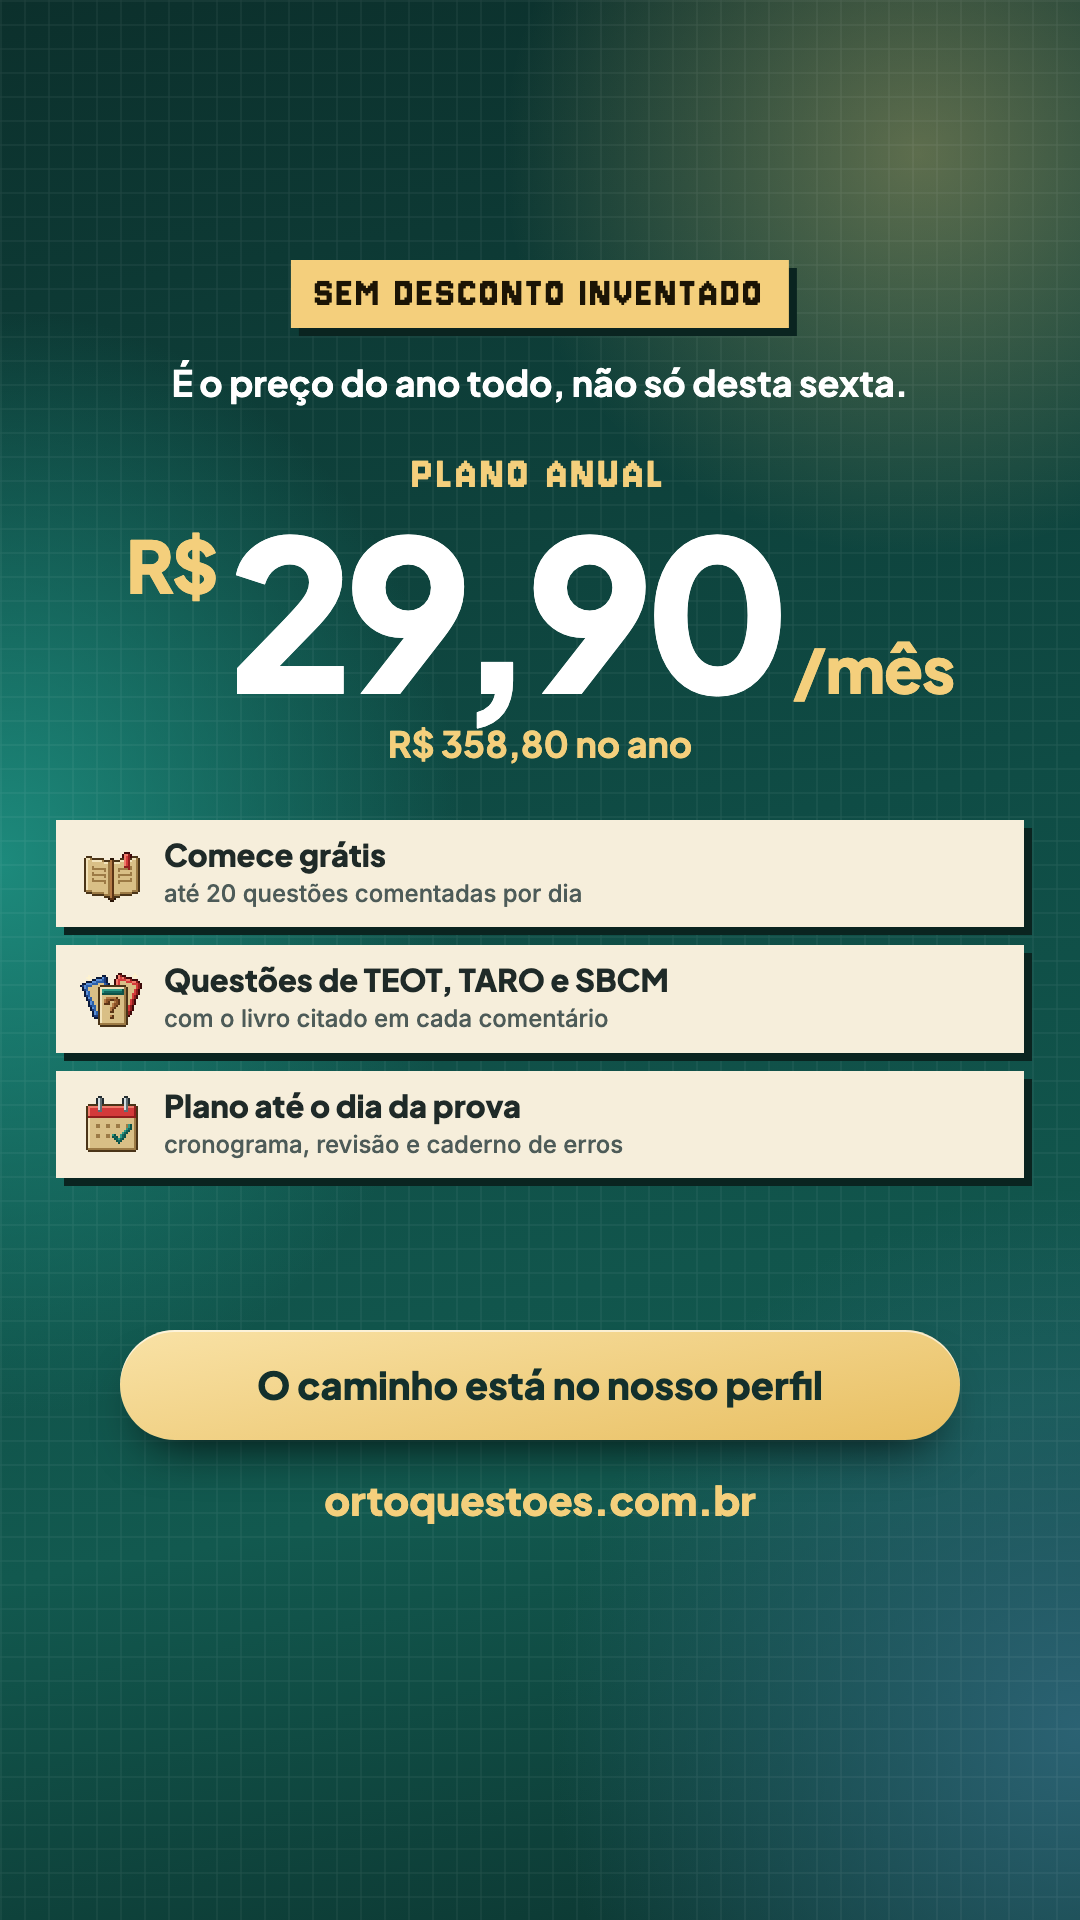
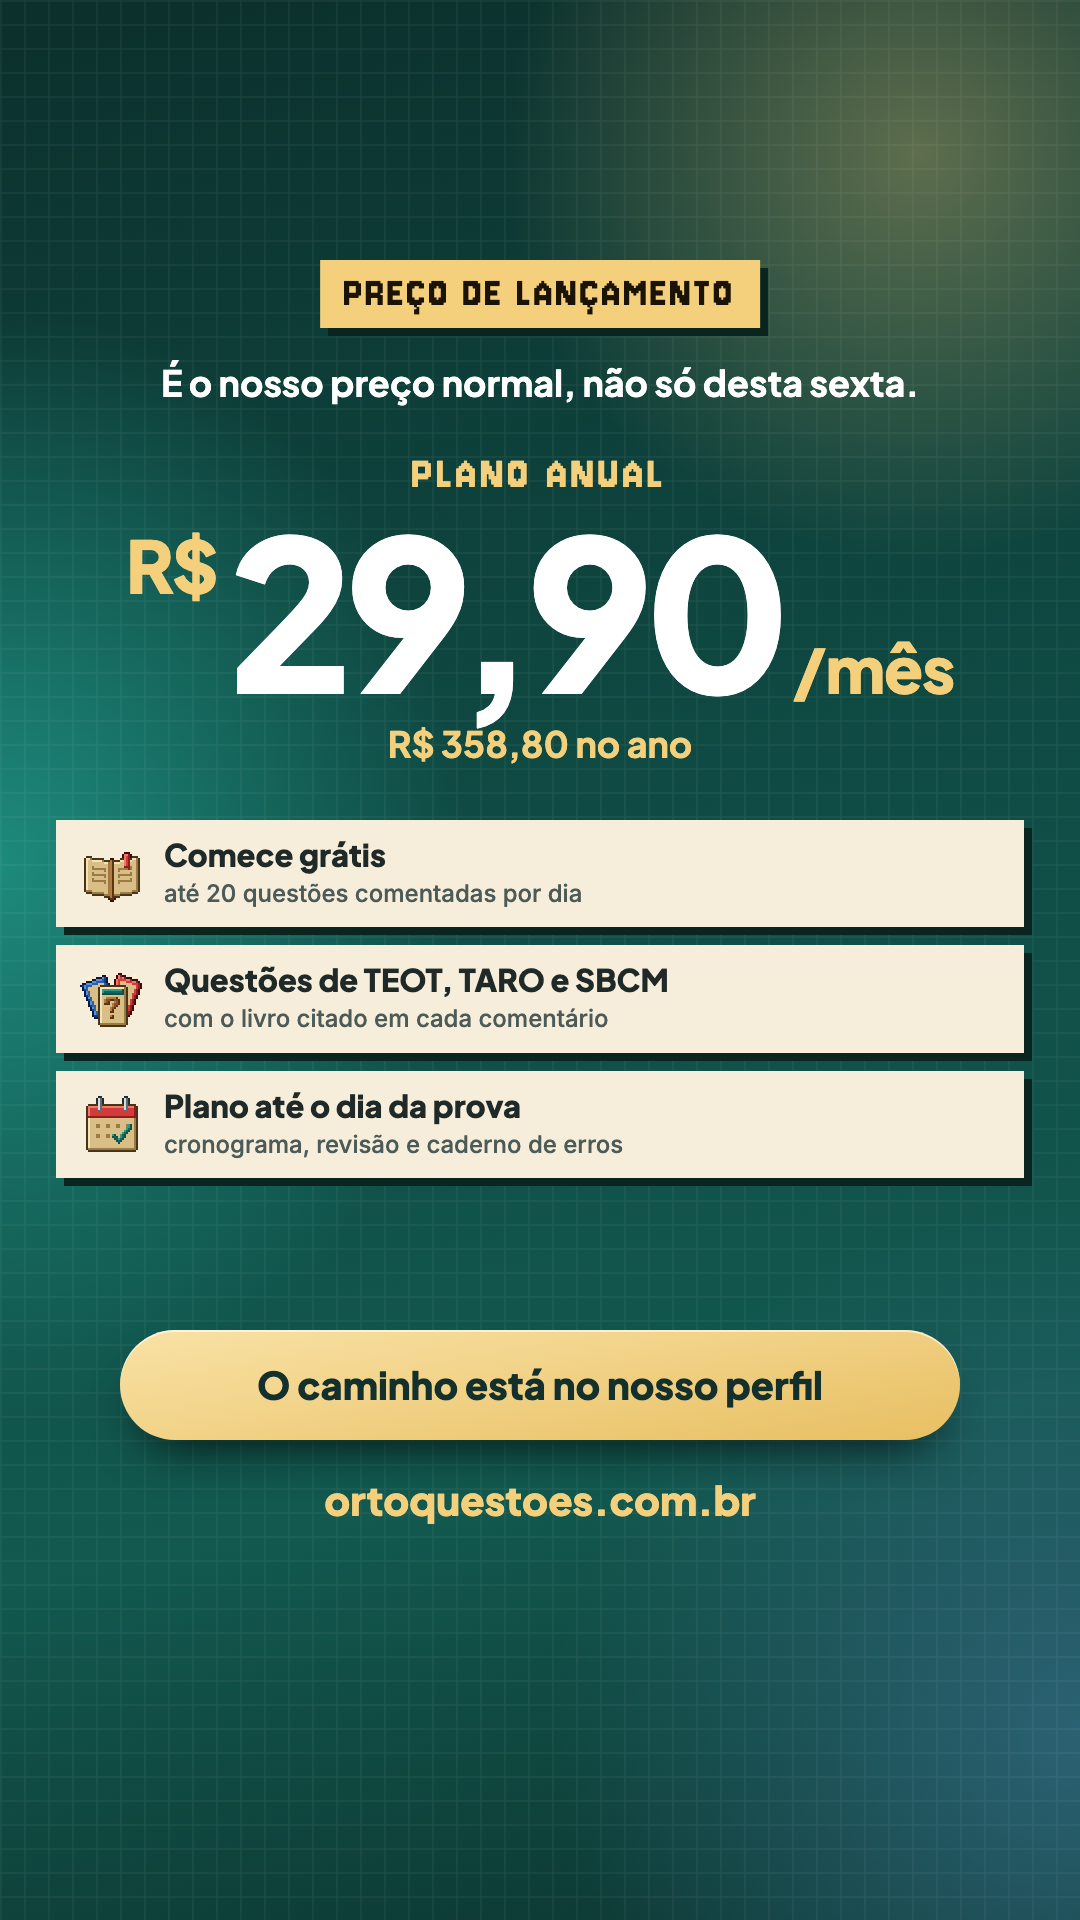
Quarta 25/11, story 3: preço de lançamento no lugar do Caderno de erros; textos de preço sem superlativo

Changed region(s): [[0.1528, 0.125, 0.8556, 0.2188]]

diff --git a/marketing/instagram/posts/2026-11-25-bercario-nf1/stories.html b/marketing/instagram/posts/2026-11-25-bercario-nf1/stories.html
@@ -31,6 +31,20 @@
 .op { font-size: 31px; min-height: 90px; }
 .pino { position: absolute; width: 30px; height: 84px; z-index: 4; background: linear-gradient(90deg, #e9d9ab 0 50%, #cdb77b 50%); border-radius: 6px; box-shadow: 0 6px 10px -4px rgba(0,0,0,.6); }
 .varal { position: absolute; left: -20px; right: -20px; height: 12px; background: repeating-linear-gradient(90deg, #d8b25e 0 14px, #a8843a 14px 20px); z-index: 3; }
+.preco-card { position:absolute; left:48px; right:48px; padding:30px 36px 28px; border-radius:36px; background:linear-gradient(165deg,#fdf9ef,#f6eedb);
+  border:4px solid var(--ouro); box-shadow:0 40px 70px -34px rgba(0,0,0,.85), 10px 10px 0 rgba(10,36,32,.55); }
+.preco-card .k { font:400 36px/1 Jersey; letter-spacing:3px; color:#14655E; }
+.preco-card .f { margin-top:10px; font:600 30px/1.3 Inter; color:#34423f; }
+.preco-card .f b { color:#1f2a28; font-weight:800; }
+.linha-preco { margin-top:14px; display:flex; align-items:center; gap:28px; }
+.linha-preco .valor { font:800 128px/1 Jakarta; letter-spacing:-5px; color:#14655E; white-space:nowrap; }
+.linha-preco .r { font:800 44px/1 Jakarta; letter-spacing:-1px; vertical-align:62px; margin-right:8px; color:#a8741a; }
+.linha-preco .m { font:800 38px/1 Jakarta; letter-spacing:-1px; color:#a8741a; margin-left:6px; }
+.linha-preco .det { padding-left:24px; border-left:4px solid rgba(20,101,94,.25); font:500 28px/1.35 Inter; color:#4d5b58; }
+.linha-preco .det b { font:800 30px/1.2 Jakarta; color:#1f2a28; }
+.compara { margin-top:18px; display:flex; align-items:center; gap:16px; padding:14px 18px; border-radius:20px; background:#14655E; font:500 26px/1.25 Inter; color:#fff; }
+.compara .sel { flex:none; padding:8px 12px; background:var(--ouro); color:#1b1405; font:400 28px/1 Jersey; letter-spacing:2px; }
+.compara b { color:var(--ouro); }
 </style></head>
 <body>
 
@@ -93,24 +107,28 @@
   <div class="fundo"></div><div class="grade"></div>
   <div style="position:absolute; left:56px; right:56px; top:210px;">
     <p style="font:400 40px/1 Jersey; letter-spacing:3px; color:#a9ecd9;">DO BERÇO AO LIVRO</p>
-    <h1 style="margin-top:12px; font:800 62px/1.05 Jakarta; letter-spacing:-2px; color:#fff;">Estude no resumo,<br><span style="color:var(--ouro);">refaça no caderno.</span></h1>
+    <h1 style="margin-top:12px; font:800 62px/1.05 Jakarta; letter-spacing:-2px; color:#fff;">Estude no resumo,<br><span style="color:var(--ouro);">confira no livro.</span></h1>
   </div>
   <div class="varal" style="top:440px;"></div>
 
-  <div class="iphone" style="left:44px; width:318px; height:620px; top:510px; transform:rotate(-3deg);"><div class="ilha"></div><div class="tela"><img src="img/cel-comentario.png" alt=""></div></div>
-  <span class="pino" style="left:176px; top:424px;"></span>
-  <span class="etq clara" style="left:60px; top:1160px;">Comentário com o livro</span>
+  <div class="iphone" style="left:44px; width:300px; height:540px; top:500px; transform:rotate(-3deg);"><div class="ilha"></div><div class="tela"><img src="img/cel-comentario.png" alt=""></div></div>
+  <span class="pino" style="left:168px; top:424px;"></span>
+  <span class="etq clara" style="left:60px; top:1056px;">Comentário com o livro</span>
 
-  <div class="print2" style="left:380px; right:44px; top:520px; height:620px; transform:rotate(1.6deg);"><img src="img/resumo-trecho.png" alt=""></div>
+  <div class="print2" style="left:368px; right:44px; top:510px; height:520px; transform:rotate(1.6deg);"><img src="img/resumo-trecho.png" alt=""></div>
   <span class="pino" style="left:960px; top:424px;"></span>
-  <span class="etq" style="right:60px; top:1160px;">Resumo do Campbell 15, cap. 31</span>
+  <span class="etq" style="right:60px; top:1056px;">Resumo do Campbell 15, cap. 31</span>
 
-  <div class="print2" style="left:48px; right:48px; top:1250px; height:340px; border: 4px solid var(--ouro); border-radius: 34px;"><img src="img/print-erros.png" alt="" style="object-position:0 20%;"></div>
-  <span class="etq" style="left:70px; top:1222px; background:linear-gradient(170deg,#f9e2a6,#e8bf62); color:#13302c; font-size:25px; padding:12px 20px;">Destaque do dia: Caderno de erros</span>
-  <div style="position:absolute; left:48px; right:48px; top:1614px; display:flex; gap:10px;">
-    <span class="chip">Todo erro vira revisão</span><span class="chip">Refaça os 10 mais recentes</span><span class="chip">Imprima</span>
+  <div class="preco-card" style="top:1130px;">
+    <p class="k">SEM BLACK FRIDAY POR AQUI</p>
+    <p class="f">Não temos promoção de Black Friday.<br><b>Aproveite o nosso preço de lançamento.</b></p>
+    <div class="linha-preco">
+      <div class="valor"><span class="r">R$</span>29,90<span class="m">/mês</span></div>
+      <div class="det"><b>plano anual</b><br>R$ 358,80 no ano</div>
+    </div>
+    <div class="compara"><span class="sel">BEM ABAIXO DO MERCADO</span><span>Cursos preparatórios costumam passar de <b>R$ 6 mil</b>.</span></div>
   </div>
-  <div class="botao" style="left:48px; right:48px; top:1690px; height:88px; font-size:36px;">Treine grátis</div>
-  <p class="rodape" style="top:1812px; font-size:20px;">Até 20 questões comentadas por dia · ortoquestoes.com.br · Telas ilustrativas</p>
+  <p class="rodape" style="top:1620px; font-size:20px;">Comparação com valores públicos de cursos preparatórios · Telas ilustrativas</p>
+  <p class="rodape" style="top:1660px; font-size:22px;">ortoquestoes.com.br</p>
 </section>
 </body></html>

diff --git a/marketing/instagram/posts/2026-11-27-propaganda-preco/stories.html b/marketing/instagram/posts/2026-11-27-propaganda-preco/stories.html
@@ -75,8 +75,8 @@
 <!-- ============ STORY 3: fecho ============ -->
 <section id="sex27-3-fecho">
   <div class="fundo"></div><div class="grade"></div>
-  <div class="selo" style="left:50%; transform:translateX(-50%); top:260px;">SEM DESCONTO INVENTADO</div>
-  <p style="position:absolute; left:56px; right:56px; top:360px; text-align:center; font:700 36px/1.3 Jakarta; color:#fff;">É o preço do ano todo, não só desta sexta.</p>
+  <div class="selo" style="left:50%; transform:translateX(-50%); top:260px;">PREÇO DE LANÇAMENTO</div>
+  <p style="position:absolute; left:56px; right:56px; top:360px; text-align:center; font:700 36px/1.3 Jakarta; color:#fff;">É o nosso preço normal, não só desta sexta.</p>
   <div class="preco" style="top:450px;">
     <div class="a">PLANO ANUAL</div>
     <div class="v"><span class="r">R$</span>29,90<small> /mês</small></div>

diff --git a/marketing/instagram/estilos/STORIES-COM-ALTERNATIVAS.md b/marketing/instagram/estilos/STORIES-COM-ALTERNATIVAS.md
@@ -123,7 +123,9 @@ enquete, resposta com o livro e um **story extra de propaganda com prints reais 
 Não há promoção de Black Friday. No dia 27/11/2026 só propaganda com o preço normal (anual R$ 29,90 por mês, R$ 358,80
 no ano), em tom apelativo e dentro da lei: nunca chamar de promoção ou desconto o preço de sempre; comparação genérica e
 comprovável, sem nome ("cursos preparatórios para a prova de título passam de R$ 6 mil"); total junto da parcela; nunca
-preço por dia. Peças em `posts/2026-11-27-propaganda-preco/`.
+preço por dia. Peças em `posts/2026-11-27-propaganda-preco/`. Sem superlativo absoluto ("o mais barato do mercado"):
+usar "bem abaixo do mercado" e "preço de lançamento", com a nota "Comparação com valores públicos de cursos
+preparatórios"; nada que sugira que outros cursos enganam (nada de "desconto inventado").
 
 ## Conferência antes de entregar
 

diff --git a/marketing/instagram/posts/2026-11-27-propaganda-preco/LEGENDA.md b/marketing/instagram/posts/2026-11-27-propaganda-preco/LEGENDA.md
@@ -13,7 +13,7 @@ com data), total do ano junto da parcela, nunca preço por dia.
 |---|---|---|
 | 1 | `sex27-1-conta.png` | Quanto custa se preparar para a prova de título? Barras: outros cursos mais de R$ 6 mil x Orto Questões R$ 358,80 no ano; "R$ 29,90 por mês no anual. E não é promoção." |
 | 2 | `sex27-2-cabe.png` | O que cabe nos R$ 29,90: resumo, comentário no iPhone, Cronograma, Atlas 3D, Caderno de erros e Simulados |
-| 3 | `sex27-3-fecho.png` | Sem desconto inventado: o preço do ano todo; R$ 29,90/mês, R$ 358,80 no ano; comece grátis; "o caminho está no nosso perfil" |
+| 3 | `sex27-3-fecho.png` | Preço de lançamento: é o nosso preço normal; R$ 29,90/mês, R$ 358,80 no ano; comece grátis; "o caminho está no nosso perfil" |
 
 ## Conferência
 
